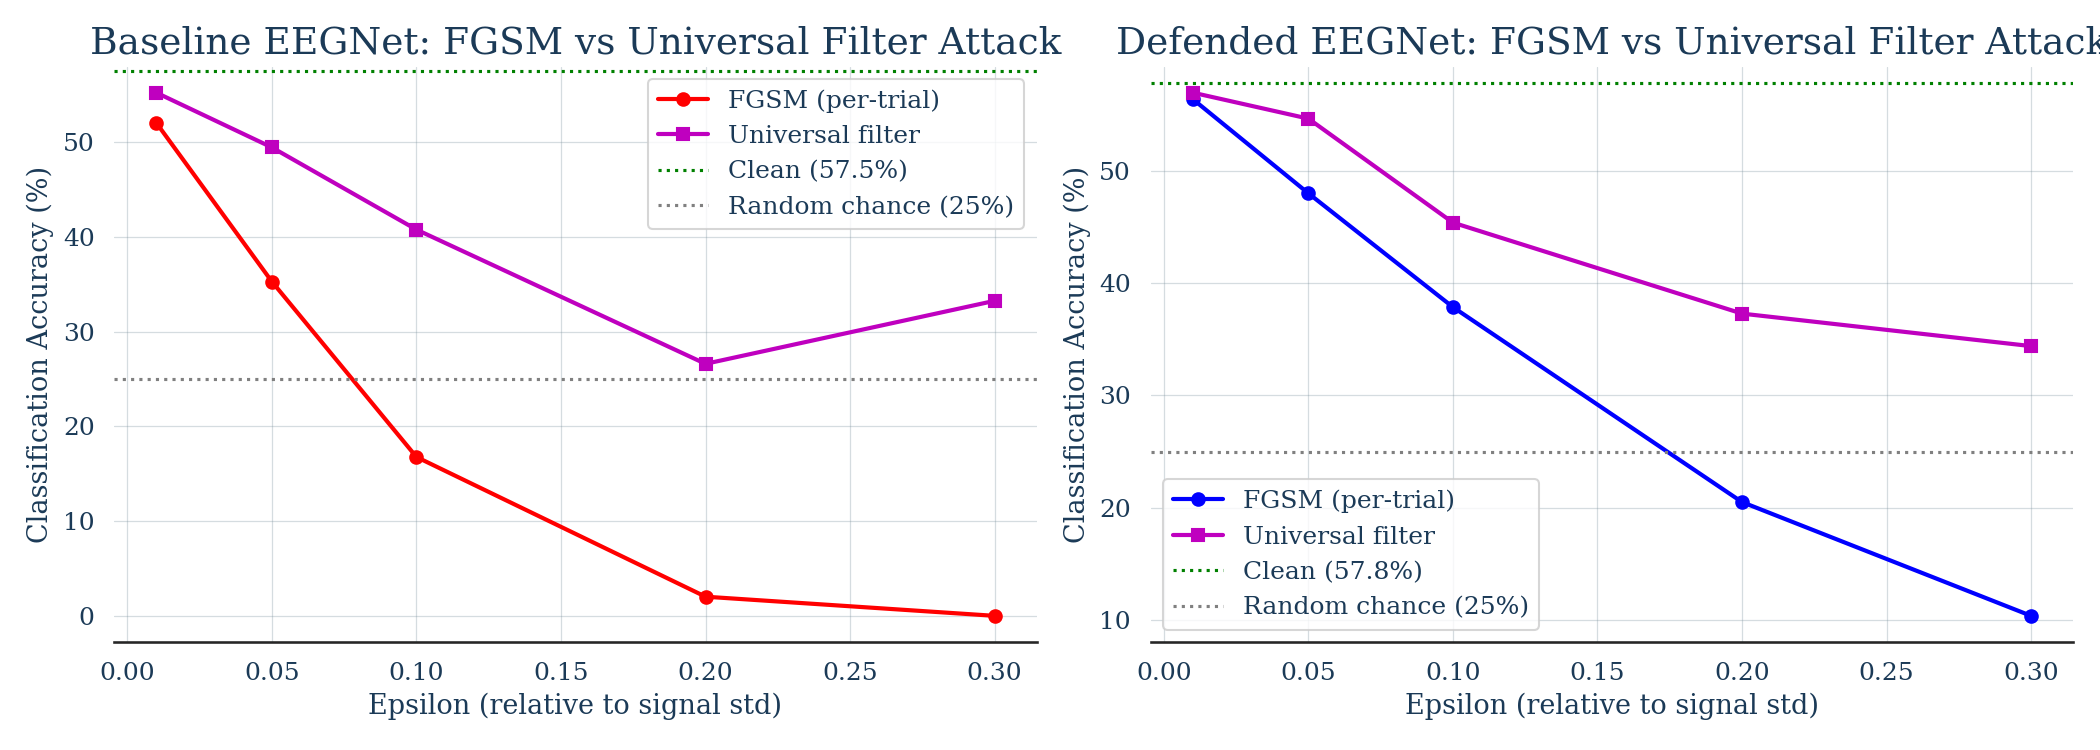
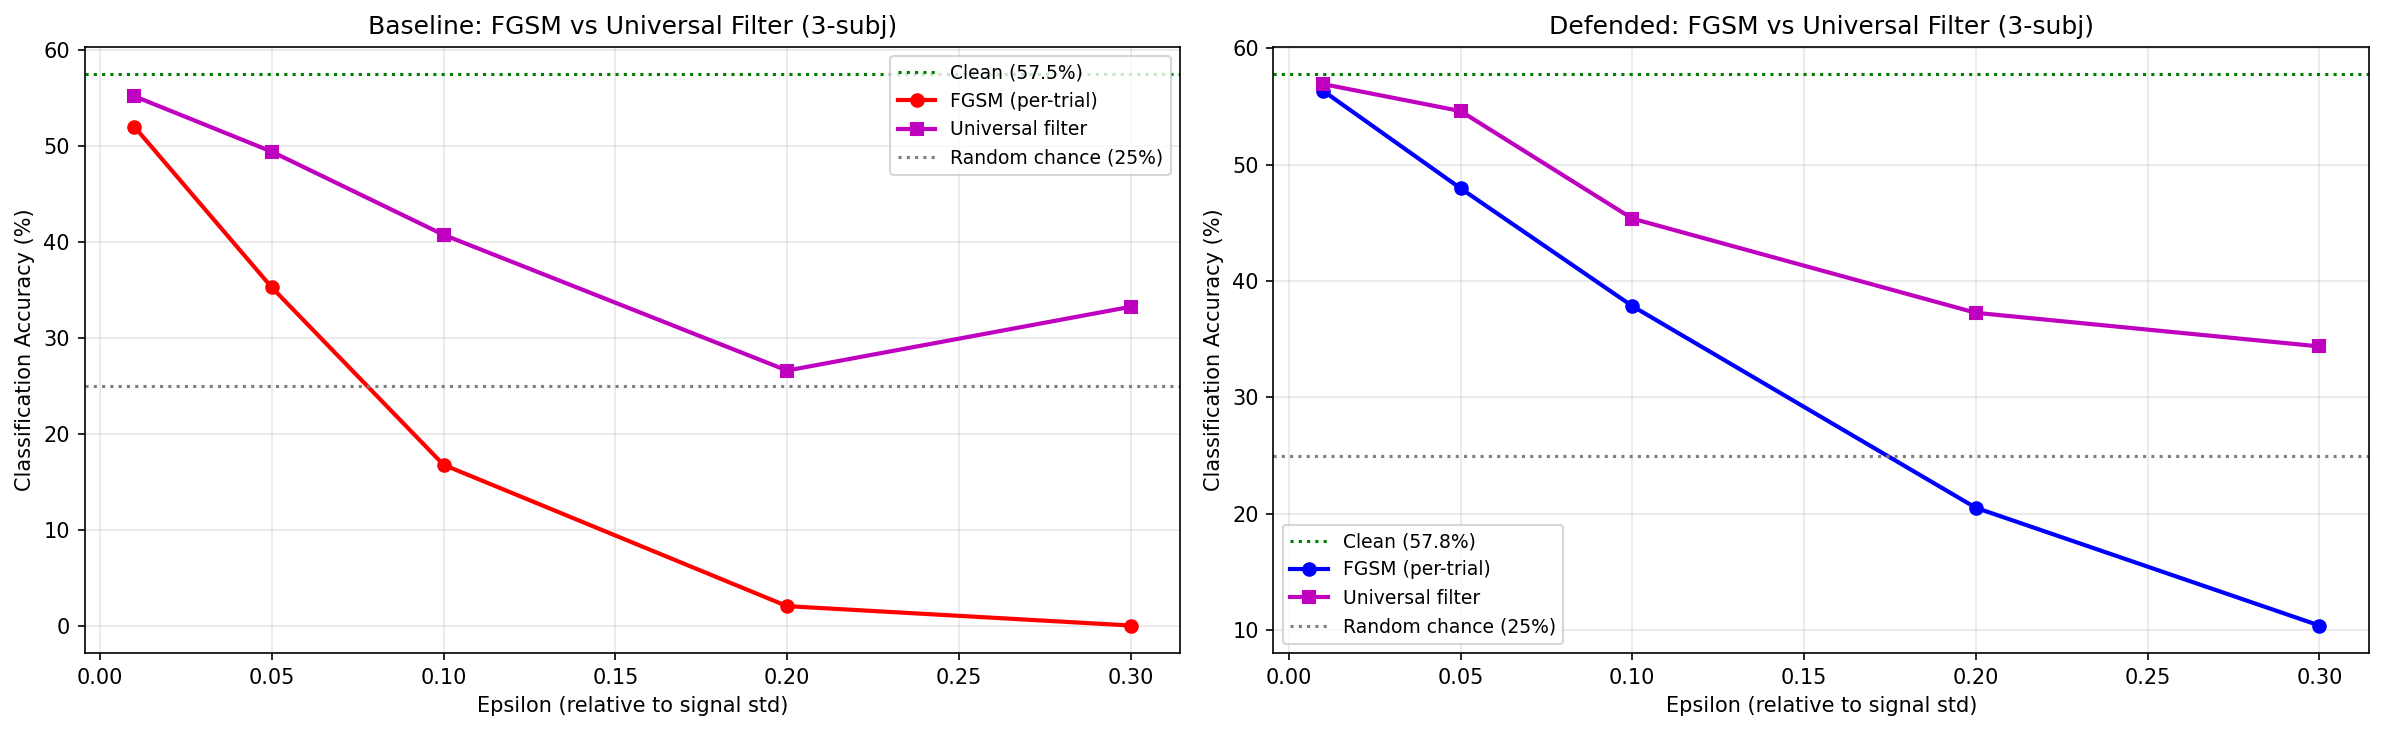
Day 7: Final report draft, Threat Model and Multidisciplinary sections, regenerated FGSM and filter figures with proper layouts

diff --git a/fix_fgsm_figure.py b/fix_fgsm_figure.py
@@ -1,0 +1,89 @@
+import torch
+import torch.nn as nn
+import numpy as np
+import matplotlib.pyplot as plt
+from sklearn.model_selection import train_test_split
+from sklearn.preprocessing import LabelEncoder
+from moabb.datasets import BNCI2014_001
+from moabb.paradigms import MotorImagery
+from eegnet_model import EEGNet
+
+def fgsm_attack(model, X, y, epsilon):
+    X_adv = X.clone().requires_grad_(True)
+    criterion = nn.CrossEntropyLoss()
+    outputs = model(X_adv)
+    loss = criterion(outputs, y)
+    model.zero_grad()
+    loss.backward()
+    return (X + epsilon * X_adv.grad.sign()).detach()
+
+print("Loading 9-subject dataset...")
+dataset = BNCI2014_001()
+paradigm = MotorImagery(n_classes=4)
+all_X, all_y = [], []
+for subject in [1, 2, 3, 4, 5, 6, 7, 8, 9]:
+    X, y, _ = paradigm.get_data(dataset=dataset, subjects=[subject])
+    all_X.append(X)
+    all_y.append(y)
+X = np.concatenate(all_X, axis=0)
+y = np.concatenate(all_y, axis=0)
+le = LabelEncoder()
+y_encoded = le.fit_transform(y)
+_, X_test, _, y_test = train_test_split(X, y_encoded, test_size=0.2, random_state=42, stratify=y_encoded)
+X_test = torch.FloatTensor(X_test)
+y_test = torch.LongTensor(y_test)
+
+print("Loading 9-subject baseline model...")
+model = EEGNet(n_classes=4, n_channels=22, n_timepoints=1001)
+model.load_state_dict(torch.load("baseline_model_9subj.pth"))
+model.eval()
+
+with torch.no_grad():
+    out = model(X_test)
+    _, pred = torch.max(out, 1)
+    clean_acc = (pred == y_test).float().mean().item()
+print(f"Clean accuracy: {clean_acc*100:.2f}%")
+
+print("Running FGSM at all epsilons...")
+epsilons = [0.01, 0.05, 0.10, 0.20, 0.30]
+attack_accs = []
+for eps in epsilons:
+    X_adv = fgsm_attack(model, X_test, y_test, eps)
+    with torch.no_grad():
+        out = model(X_adv)
+        _, pred = torch.max(out, 1)
+        acc = (pred == y_test).float().mean().item()
+    attack_accs.append(acc)
+    print(f"  Epsilon {eps:.2f}: {acc*100:.2f}%")
+
+# Generate signal viz at epsilon 0.10
+X_adv_demo = fgsm_attack(model, X_test[:5], y_test[:5], 0.10)
+trial_idx = 0
+channel_idx = 0
+clean_signal = X_test[trial_idx, channel_idx].numpy()
+adv_signal = X_adv_demo[trial_idx, channel_idx].numpy()
+
+# WIDER figure to fit titles
+fig, axes = plt.subplots(1, 2, figsize=(16, 5))
+
+axes[0].plot(epsilons, [clean_acc*100]*len(epsilons), 'g--', label=f'Baseline (clean): {clean_acc*100:.1f}%', linewidth=2)
+axes[0].plot(epsilons, [a*100 for a in attack_accs], 'r-o', label='After FGSM attack', linewidth=2)
+axes[0].axhline(y=25, color='gray', linestyle=':', label='Random chance (25%)')
+axes[0].set_xlabel('Epsilon (perturbation magnitude)')
+axes[0].set_ylabel('Classification Accuracy (%)')
+axes[0].set_title('FGSM Attack: Accuracy vs Perturbation', fontsize=12)
+axes[0].legend(loc='lower left', fontsize=9)
+axes[0].grid(True, alpha=0.3)
+
+axes[1].plot(clean_signal, 'b-', label='Original EEG', linewidth=1.0, alpha=0.8)
+axes[1].plot(adv_signal, 'r-', label='Adversarial EEG', linewidth=1.0, alpha=0.7)
+axes[1].set_xlabel('Time points')
+axes[1].set_ylabel('Amplitude')
+axes[1].set_title('Original vs Adversarial Signal (epsilon=0.10)', fontsize=12)
+axes[1].legend(loc='upper right', fontsize=9)
+axes[1].grid(True, alpha=0.3)
+
+plt.tight_layout()
+plt.savefig('fgsm_attack_results.png', dpi=150, bbox_inches='tight')
+plt.show()
+print("Saved fgsm_attack_results.png with 9-subject data")

diff --git a/fix_filter_figure.py b/fix_filter_figure.py
@@ -1,0 +1,41 @@
+import matplotlib.pyplot as plt
+
+epsilons = [0.01, 0.05, 0.10, 0.20, 0.30]
+
+# 3-subject scope results (from the filter attack run on Day 2)
+baseline_clean = 57.51
+defended_clean = 57.80
+baseline_fgsm = [52.02, 35.26, 16.76, 2.02, 0.00]
+defended_fgsm = [56.36, 47.98, 37.86, 20.52, 10.40]
+baseline_filter = [55.20, 49.42, 40.75, 26.59, 33.24]
+defended_filter = [56.94, 54.62, 45.38, 37.28, 34.39]
+
+# WIDER figure to fit titles cleanly
+fig, axes = plt.subplots(1, 2, figsize=(16, 5))
+
+# Left panel: baseline
+axes[0].axhline(y=baseline_clean, color='g', linestyle=':', label=f'Clean ({baseline_clean:.1f}%)', linewidth=1.5)
+axes[0].plot(epsilons, baseline_fgsm, 'r-o', label='FGSM (per-trial)', linewidth=2)
+axes[0].plot(epsilons, baseline_filter, 'm-s', label='Universal filter', linewidth=2)
+axes[0].axhline(y=25, color='gray', linestyle=':', label='Random chance (25%)', linewidth=1.5)
+axes[0].set_xlabel('Epsilon (relative to signal std)')
+axes[0].set_ylabel('Classification Accuracy (%)')
+axes[0].set_title('Baseline: FGSM vs Universal Filter (3-subj)', fontsize=12)
+axes[0].legend(loc='upper right', fontsize=9)
+axes[0].grid(True, alpha=0.3)
+
+# Right panel: defended
+axes[1].axhline(y=defended_clean, color='g', linestyle=':', label=f'Clean ({defended_clean:.1f}%)', linewidth=1.5)
+axes[1].plot(epsilons, defended_fgsm, 'b-o', label='FGSM (per-trial)', linewidth=2)
+axes[1].plot(epsilons, defended_filter, 'm-s', label='Universal filter', linewidth=2)
+axes[1].axhline(y=25, color='gray', linestyle=':', label='Random chance (25%)', linewidth=1.5)
+axes[1].set_xlabel('Epsilon (relative to signal std)')
+axes[1].set_ylabel('Classification Accuracy (%)')
+axes[1].set_title('Defended: FGSM vs Universal Filter (3-subj)', fontsize=12)
+axes[1].legend(loc='lower left', fontsize=9)
+axes[1].grid(True, alpha=0.3)
+
+plt.tight_layout()
+plt.savefig('filter_attack_results.png', dpi=150, bbox_inches='tight')
+plt.show()
+print("Saved filter_attack_results.png with fixed layout")